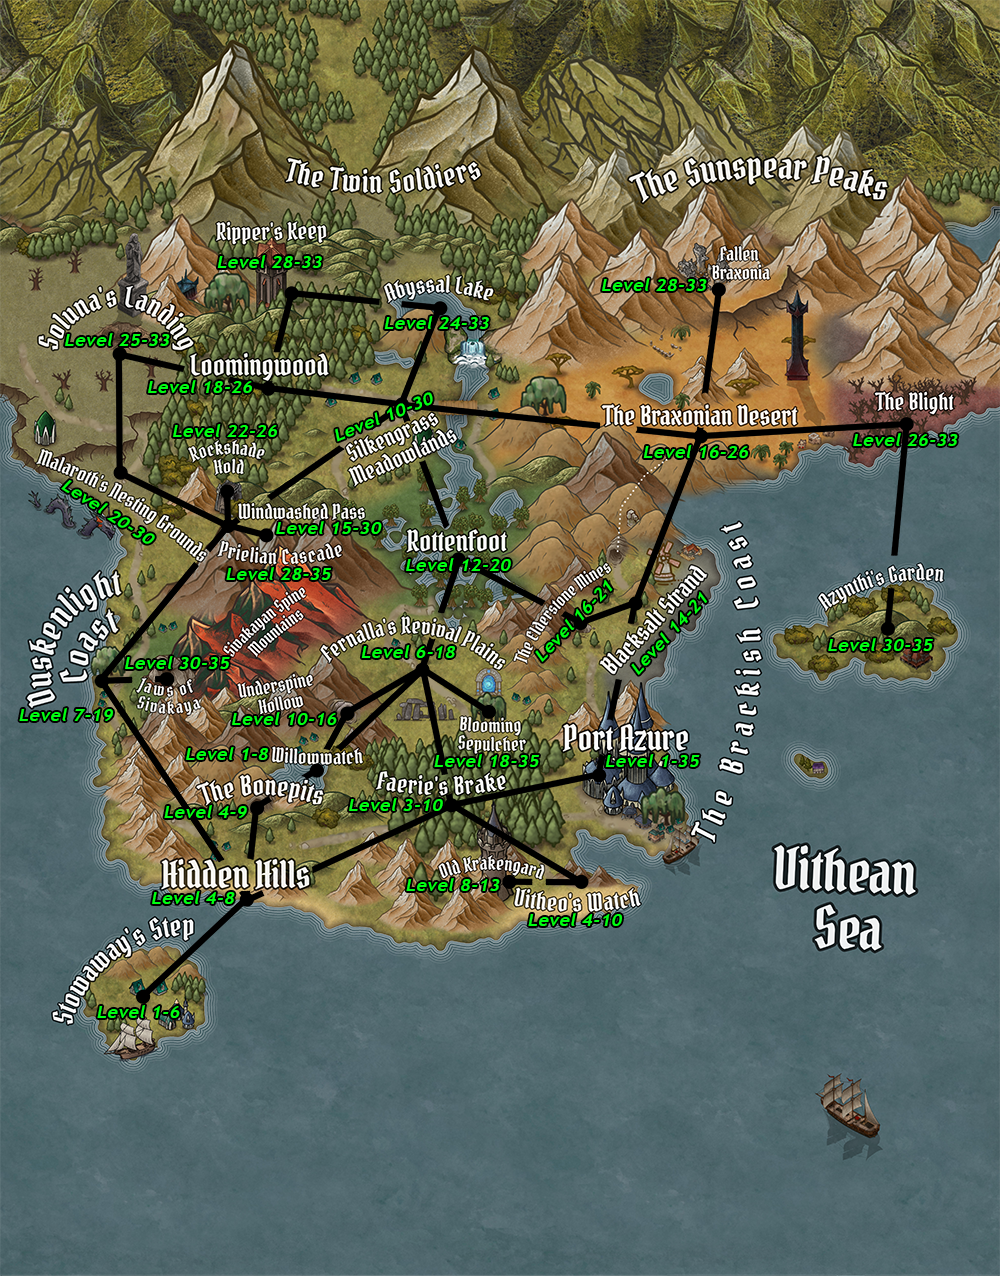
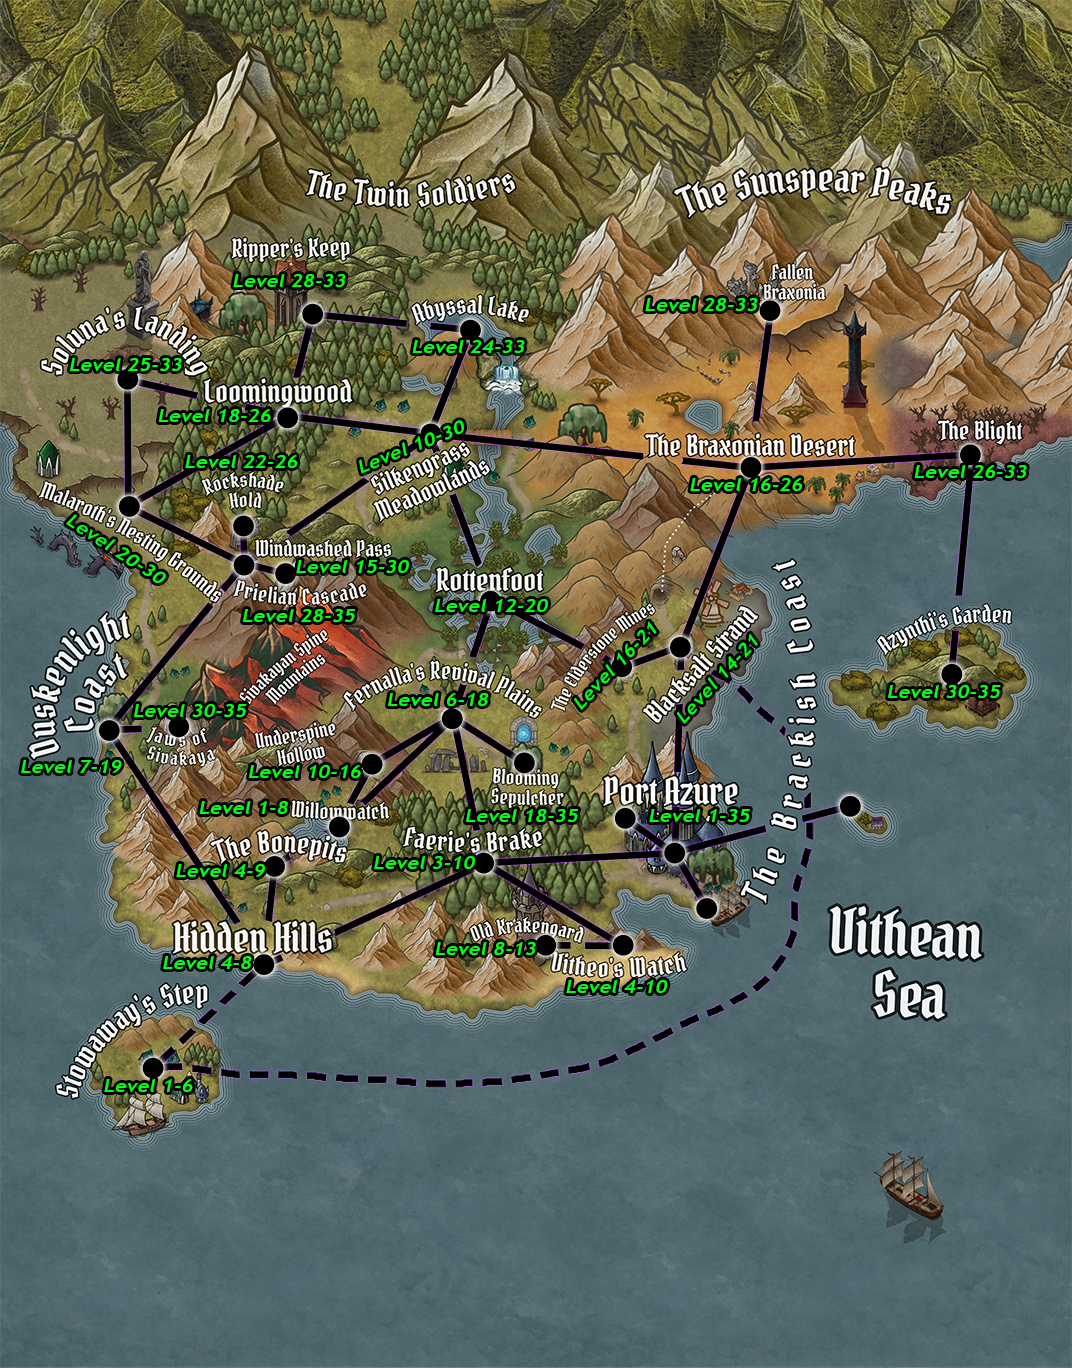
Updated Map, Image Based Resizing

diff --git a/Expulsion.Erenshor.WikiMap/Plugin.cs b/Expulsion.Erenshor.WikiMap/Plugin.cs
@@ -12,11 +12,12 @@ namespace Expulsion.Erenshor.WikiMap
     {
         private const string PluginGuid = "Expulsion.Erenshor.WikiMap";
         private const string PluginName = "WikiMap";
-        private const string PluginVersion = "1.0.0";
+        private const string PluginVersion = "1.0.2";
 
         private Harmony? _harmonyInstance;
 
         private GameObject? _mapObject;
+        private GameObject? _mapBorderObject;
 
         private void Awake()
         {
@@ -33,19 +34,32 @@ namespace Expulsion.Erenshor.WikiMap
 
         private IEnumerator WaitForMapObject()
         {
-            while (!_mapObject)
+            while (_mapObject == null)
             {
                 _mapObject = GameObject.Find("UI/UIElements/Map");
+                _mapBorderObject = GameObject.Find("UI/UIElements/Map/Map (1)");
                 yield return null;
             }
+
+            var mapRect = _mapObject?.GetComponent<RectTransform>();
+            var mapBorderRect = _mapBorderObject?.GetComponent<RectTransform>();
 
             var mapImage = _mapObject?.GetComponent<Image>();
 
             var texture = new Texture2D(1, 1, TextureFormat.RGBA32, false);
             texture.LoadImage(File.ReadAllBytes(Path.Combine(Paths.PluginPath, PluginGuid, "Assets", "ErenshorMapRoutes.png")));
 
-            if (mapImage)
+            if (mapImage != null && mapRect != null && mapBorderRect != null)
+            {
+                mapRect.sizeDelta = new Vector2(texture.width, texture.height) * 0.55f;
+                mapRect.anchoredPosition = new Vector2(0, 0);
+                mapRect.anchoredPosition3D = new Vector3(0, 0, 0);
+                mapBorderRect.anchorMin = new Vector2(0, 0);
+                mapBorderRect.anchorMax = new Vector2(1, 1);
+                mapBorderRect.offsetMin = new Vector2(-24, -24);
+                mapBorderRect.offsetMax = new Vector2(24, 24);
                 mapImage.sprite = Sprite.Create(texture, new Rect(0, 0, texture.width, texture.height), new Vector2(0.5f, 0.5f));
+            }
         }
 
         private void OnDestroy()
